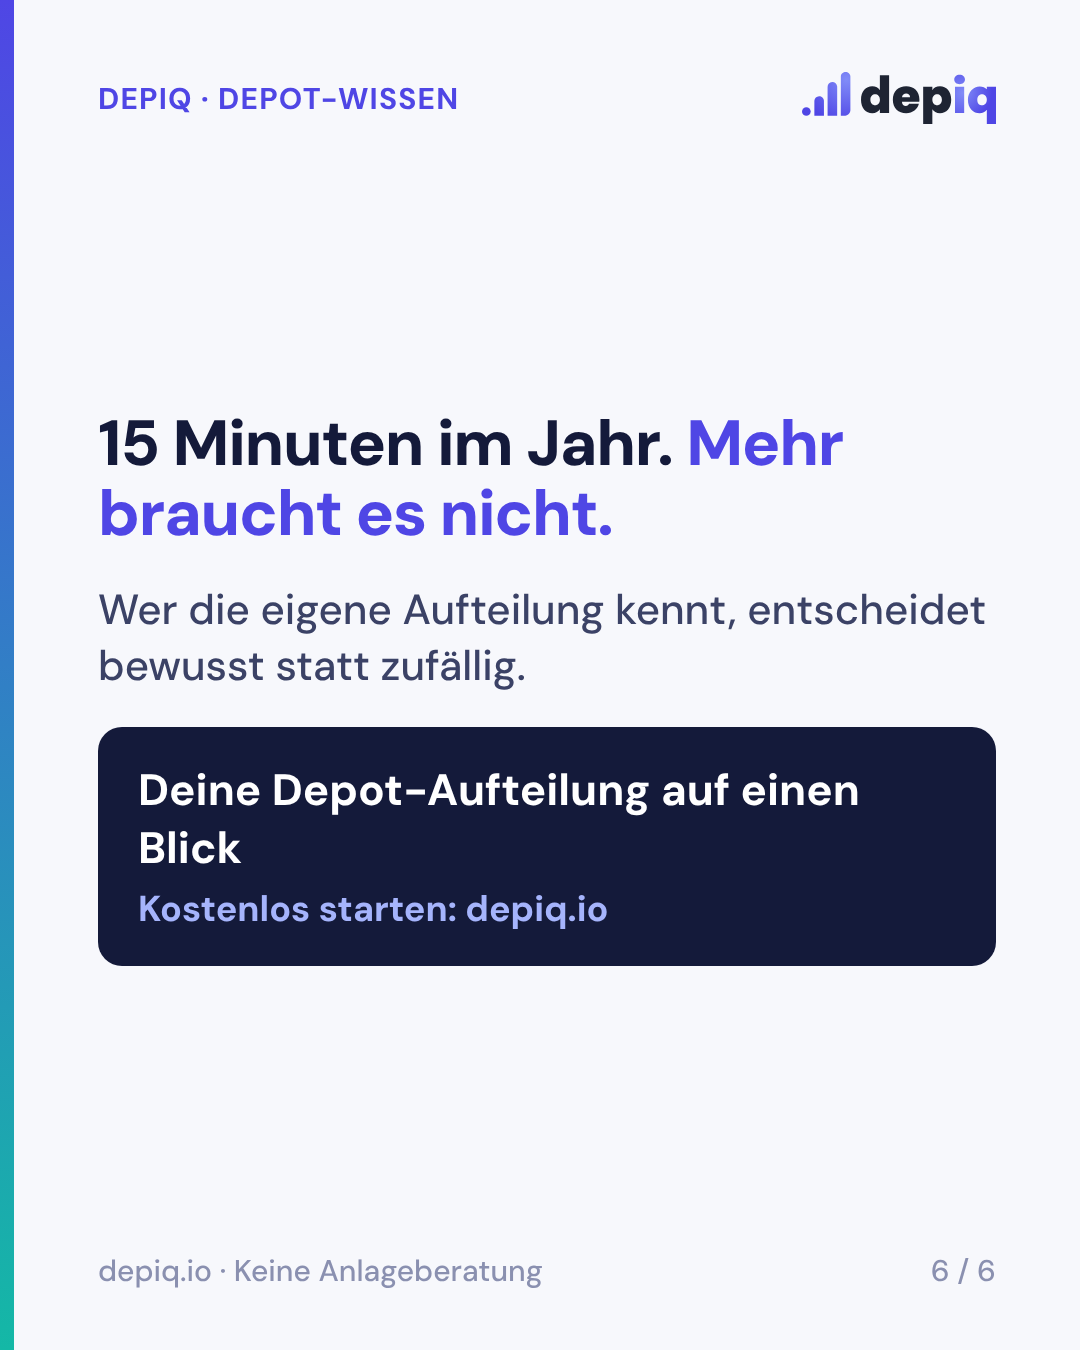
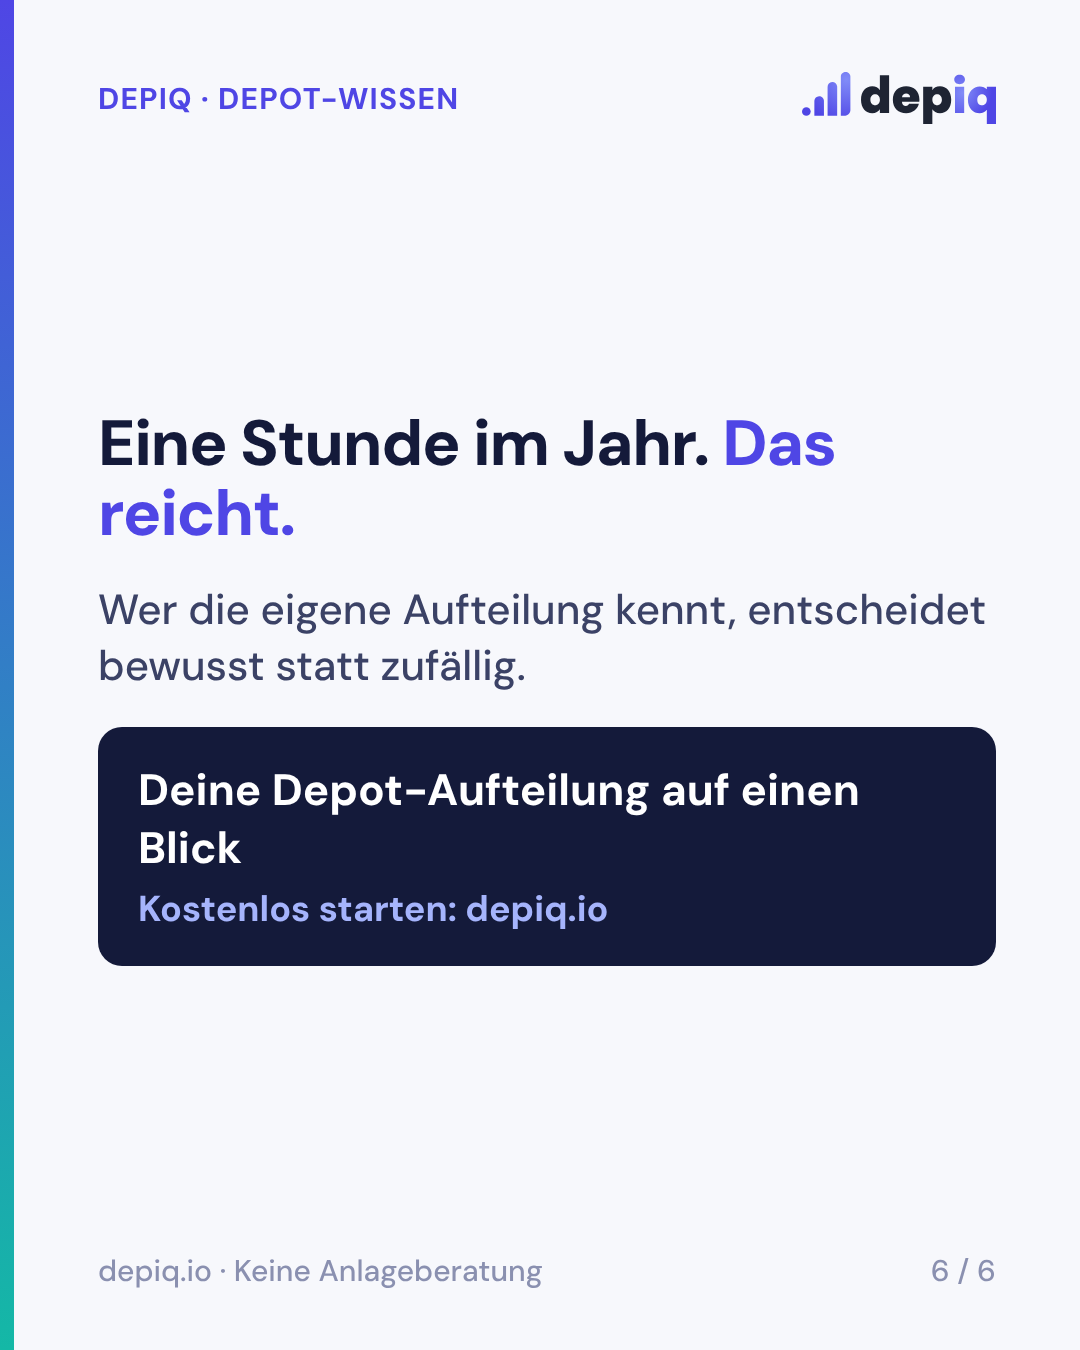
LinkedIn Rebalancing: eine Stunde statt 15 Minuten; Regel glaubwürdige Zahlen
Claude-Session: https://claude.ai/code/session_01TCMRwfkoPUXt6cdHJjM9Lg

Changed region(s): [[0.0917, 0.3111, 0.7944, 0.4044]]

diff --git a/RICHTLINIEN.md b/RICHTLINIEN.md
@@ -87,9 +87,10 @@ LinkedIn bekommt **eigene Inhalte**, nicht dieselben Beiträge wie Instagram und
 - **Zielgruppe:** Berufstätige, Führungskräfte, Selbstständige, 35 bis 60 Jahre, mit bestehendem Depot und wenig Zeit. Denken in Zahlen, wollen Struktur und Klarheit.
 - **Themen:** Depot-Struktur und Streuung, Kosten im Depot, Klumpenrisiko, Rebalancing, Altersvorsorge mit Depot, Entscheidungen unter Unsicherheit (Verhaltensökonomie), was Studien zeigen.
 - **Ton:** sachlich, ruhig, datenbasiert. Du-Form wie überall bei depiq. Erster Satz eine klare These oder Zahl. Studien mit Quelle nennen.
-- **Formate:** PDF-Dokument mit 6 bis 8 Seiten im hellen, ruhigen Design (Vorlage `vorlage/linkedin.html`, folgt), ein Diagramm mit einer Aussage, Textbeitrag mit Erkenntnis aus der Praxis.
+- **Formate:** PDF-Dokument mit 6 bis 8 Seiten im hellen, ruhigen Design (Vorlage `vorlage/linkedin.html`), ein Diagramm mit einer Aussage, Textbeitrag mit Erkenntnis aus der Praxis.
 - **Rhythmus:** Dienstag und Donnerstag, 11:00 Uhr (laut Metricool die stärkste Zeit auf LinkedIn).
 - **Ziel:** kostenlose Registrierung bei depiq („Depot strukturiert verstehen – depiq.io“) und E-Book.
+- **Glaubwürdige Zahlen:** Zeitaufwand, Renditen und Ersparnisse großzügig und realistisch schätzen, nie geschönt. Lieber „etwa eine Stunde im Jahr“ als „15 Minuten“. Zu gute Zahlen wirken unseriös und kosten Vertrauen. Renditen eher vorsichtig ansetzen, Annahmen immer nennen.
 - Kein Börsen-Frühstück, keine Emotions-Bilder, keine Reels auf LinkedIn.
 
 ## 5. Dateien und Namen
